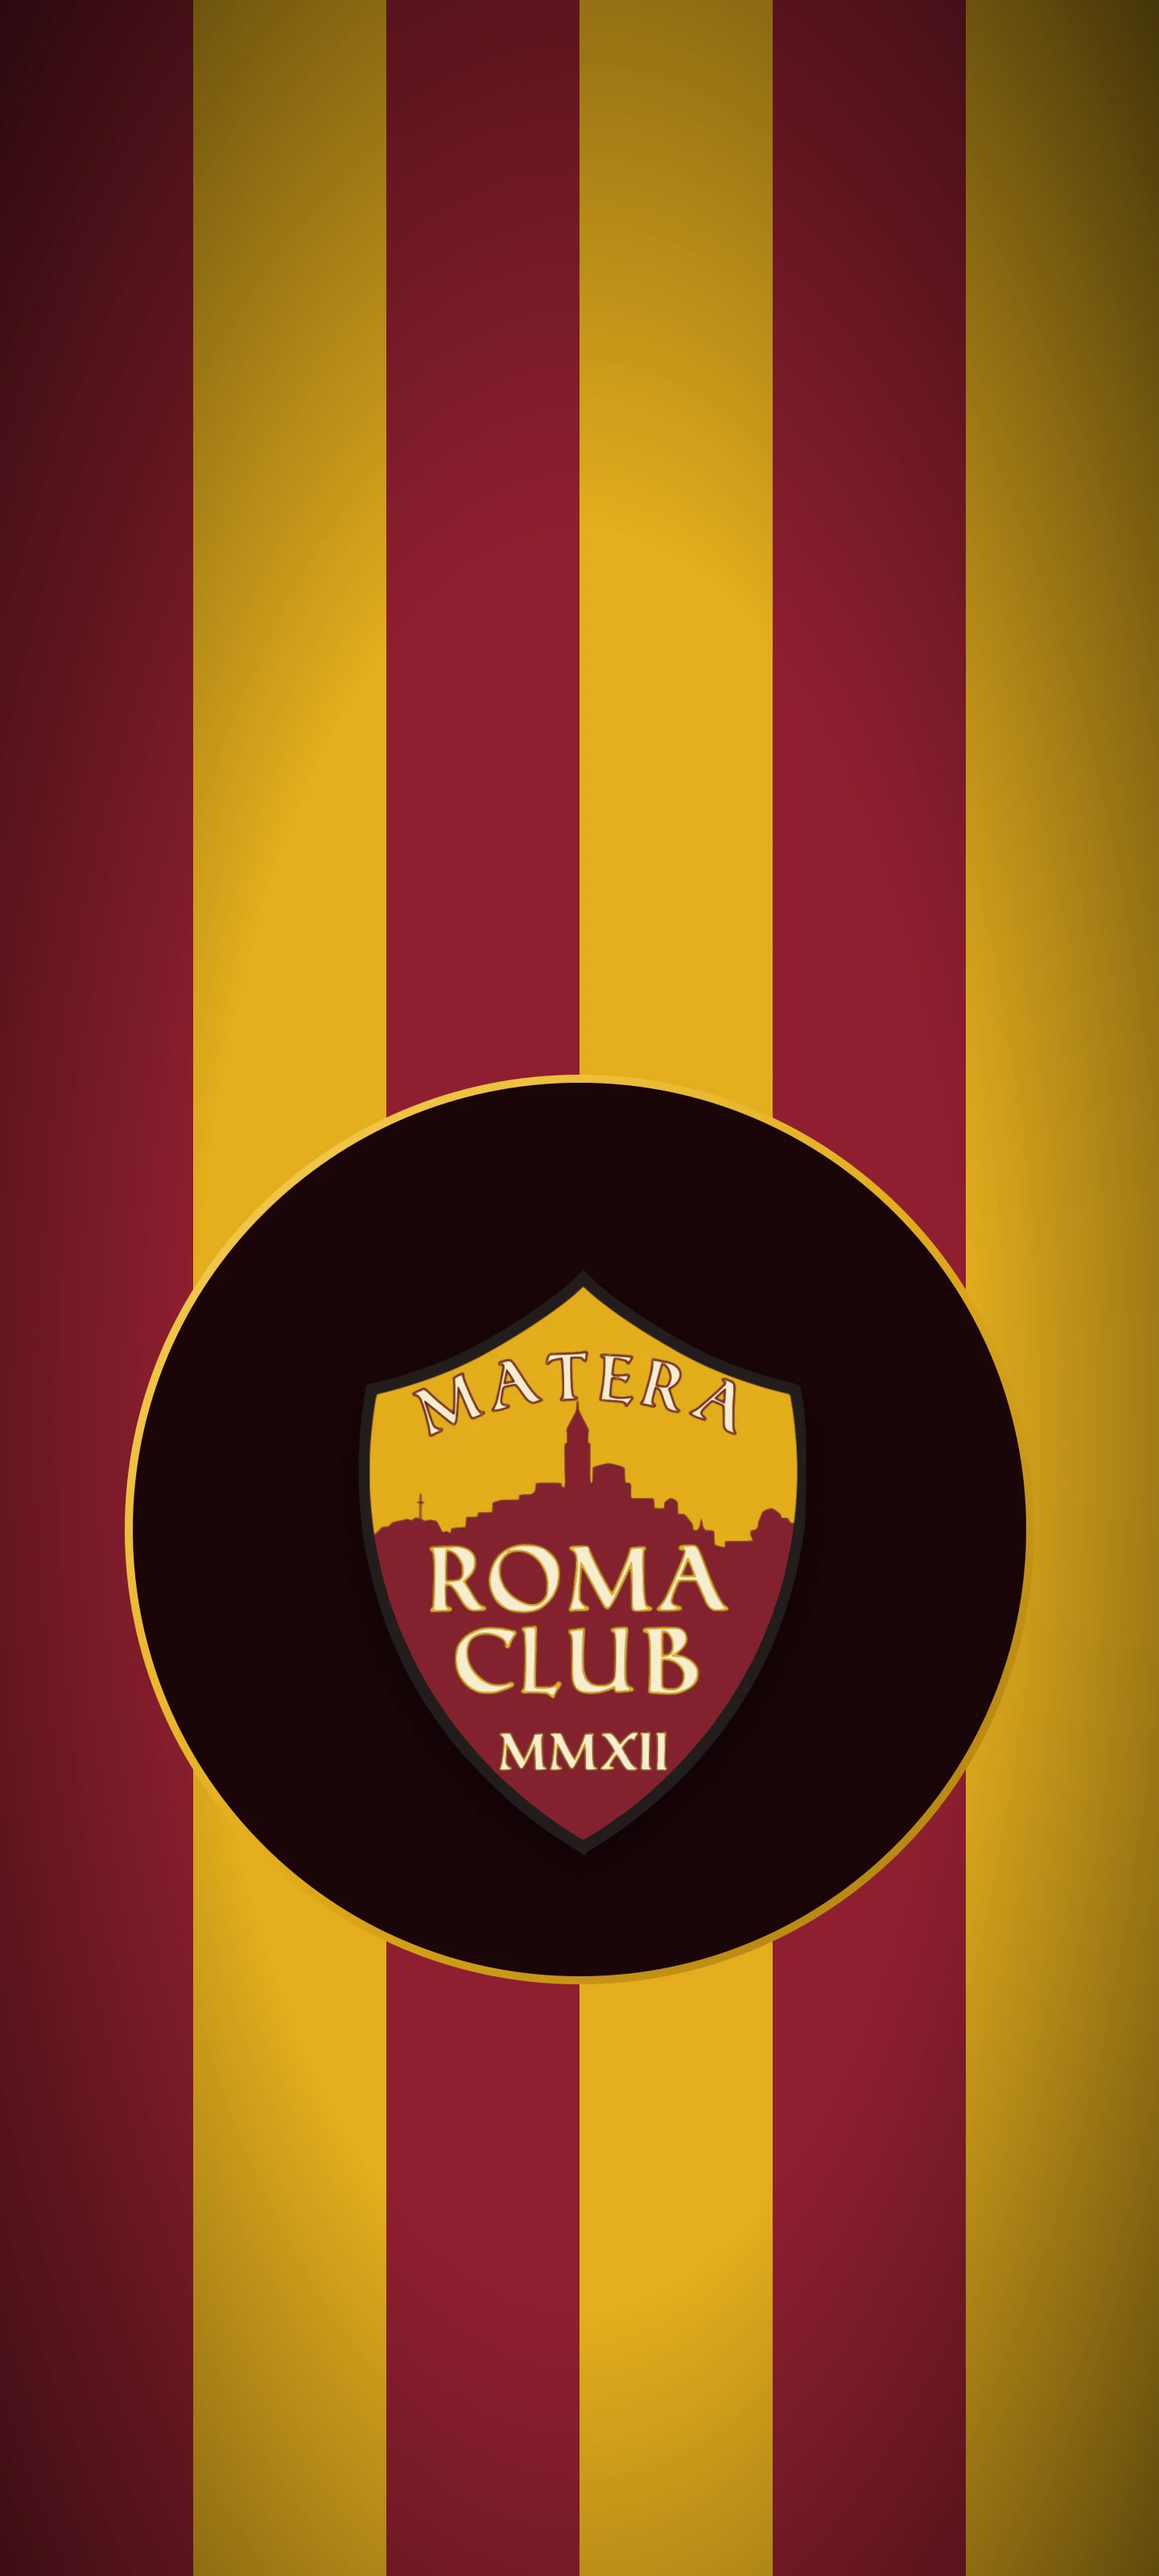
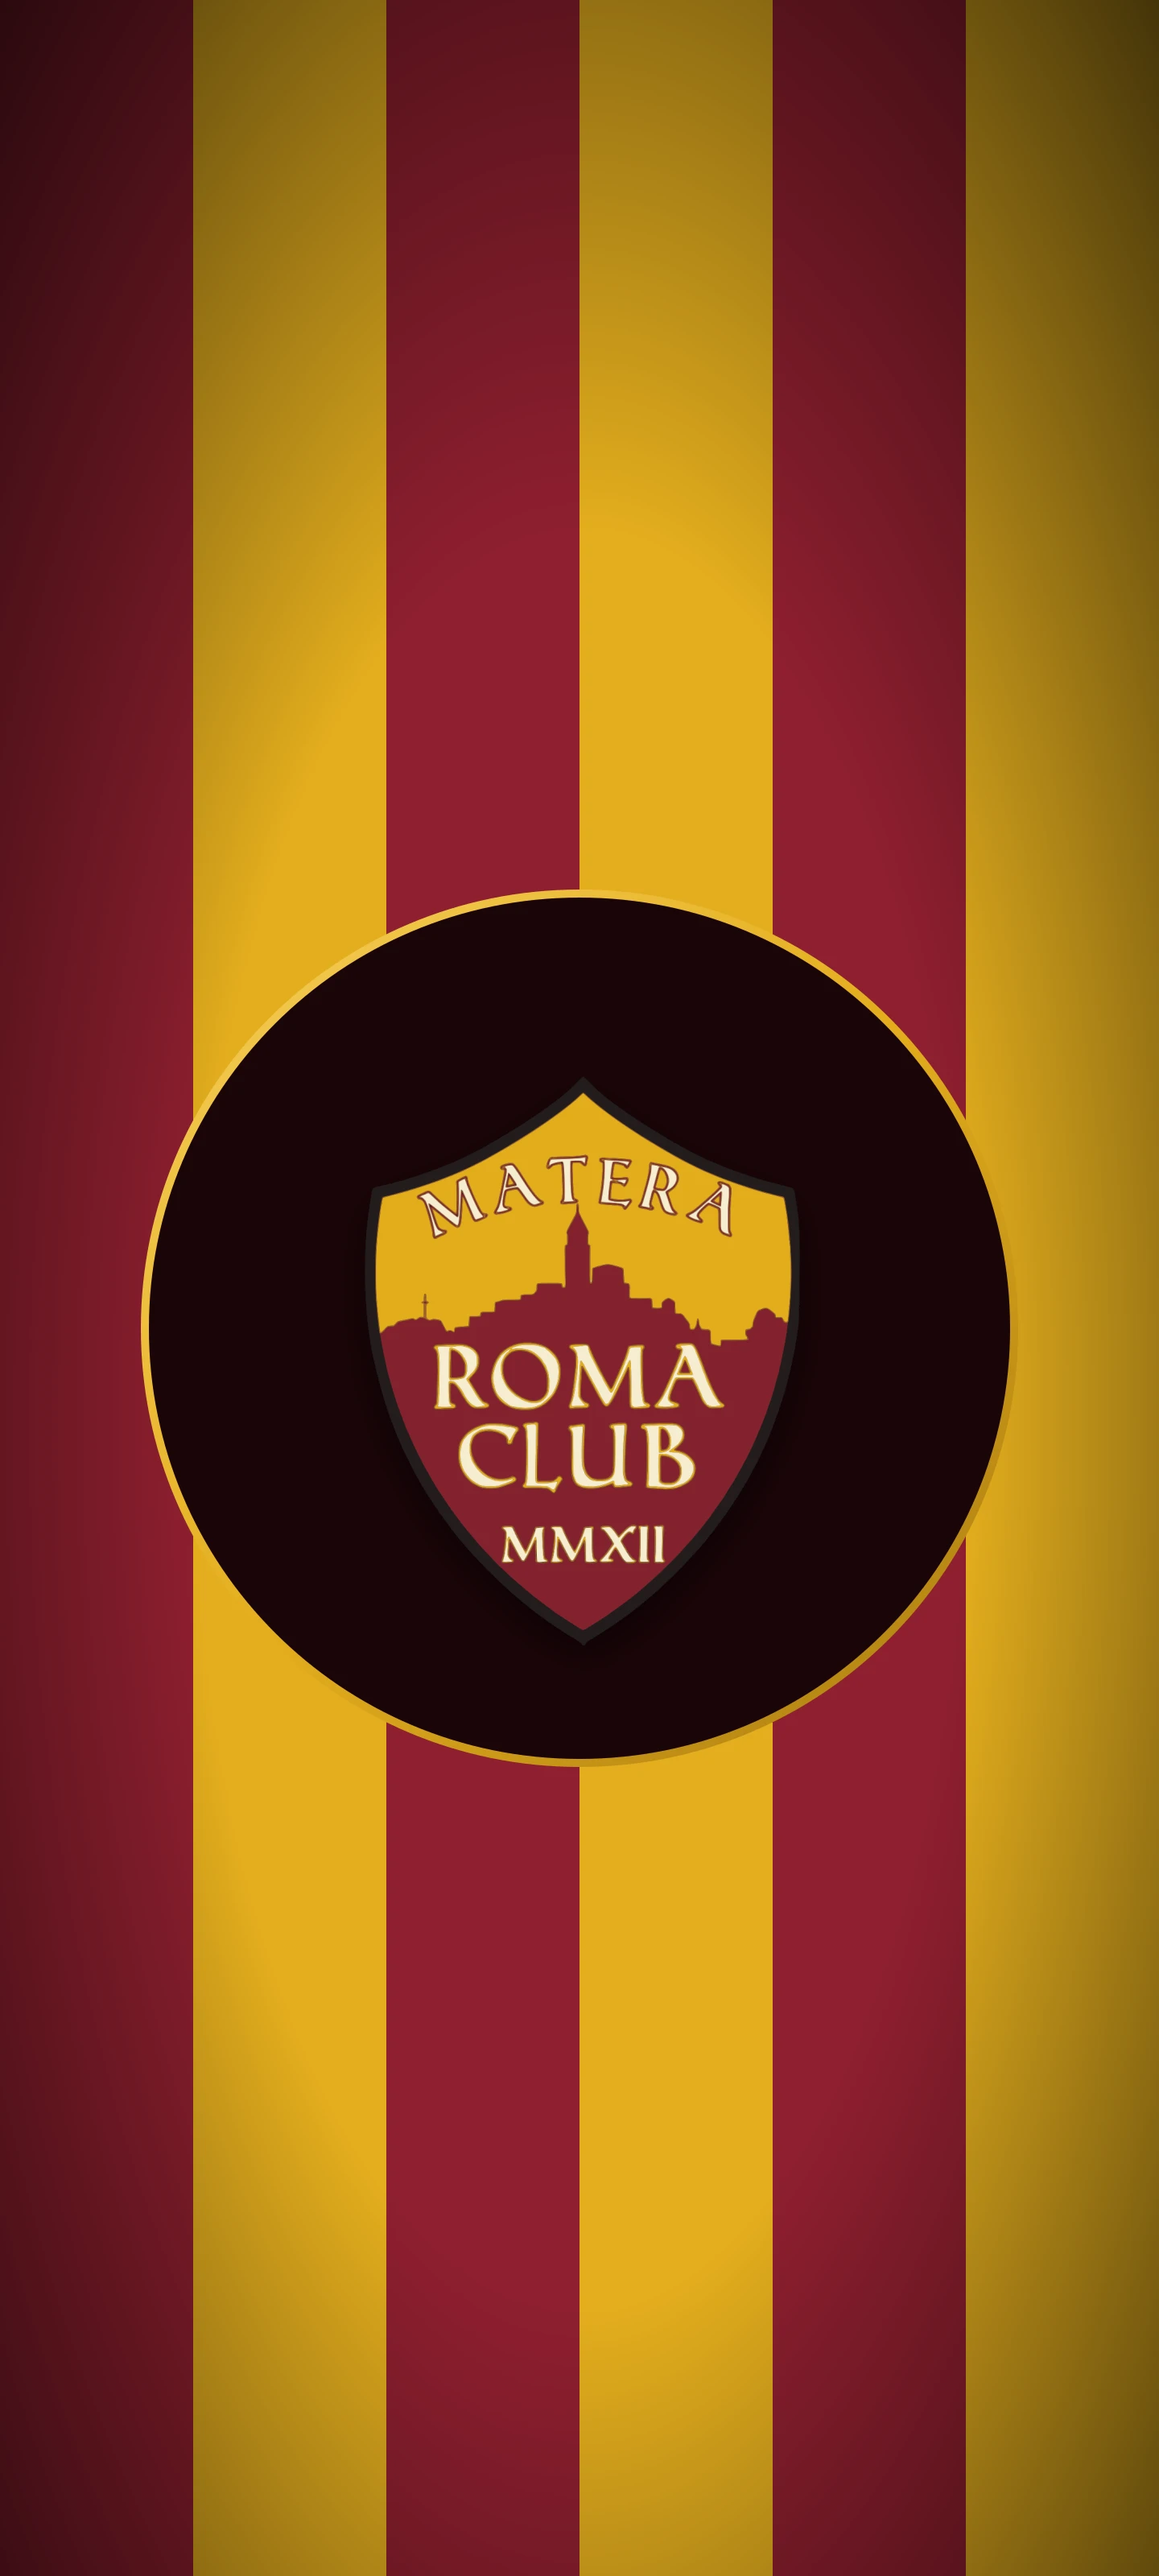
Tema RCM 1.1.0: sfondi nuovi (23), Totti e De Rossi
Asset rigenerati con prepara.sh dopo il rifacimento degli sfondi; nome
"Totti e De Rossi" fra i nomi speciali. APK pubblicato nella pagina
Download del sito.

Changed region(s): [[0.0938, 0.3438, 0.9062, 0.7812]]

diff --git a/app/lib/sfondi.dart b/app/lib/sfondi.dart
@@ -11,7 +11,7 @@ String messaggioSfondo(String dove) {
 /// "07-olimpico-notte" -> "Olimpico notte"; i nomi speciali sono qui.
 String nomeSfondo(String asset) {
   const speciali = {
-    'capitano': 'Il Capitano', 'totti-10': 'Totti 10', 'de-rossi-16': 'De Rossi 16', 'mmxii': 'MMXII',
+    'capitano': 'Il Capitano', 'totti-10': 'Totti 10', 'de-rossi-16': 'De Rossi 16', 'totti-e-de-rossi': 'Totti e De Rossi', 'mmxii': 'MMXII',
     'da-matera-a-roma': 'Da Matera a Roma', 'forza-grande-roma': 'Forza grande Roma',
     'olimpico-notte': "L'Olimpico", 'la-curva-fumogeni': 'La Curva',
   };
